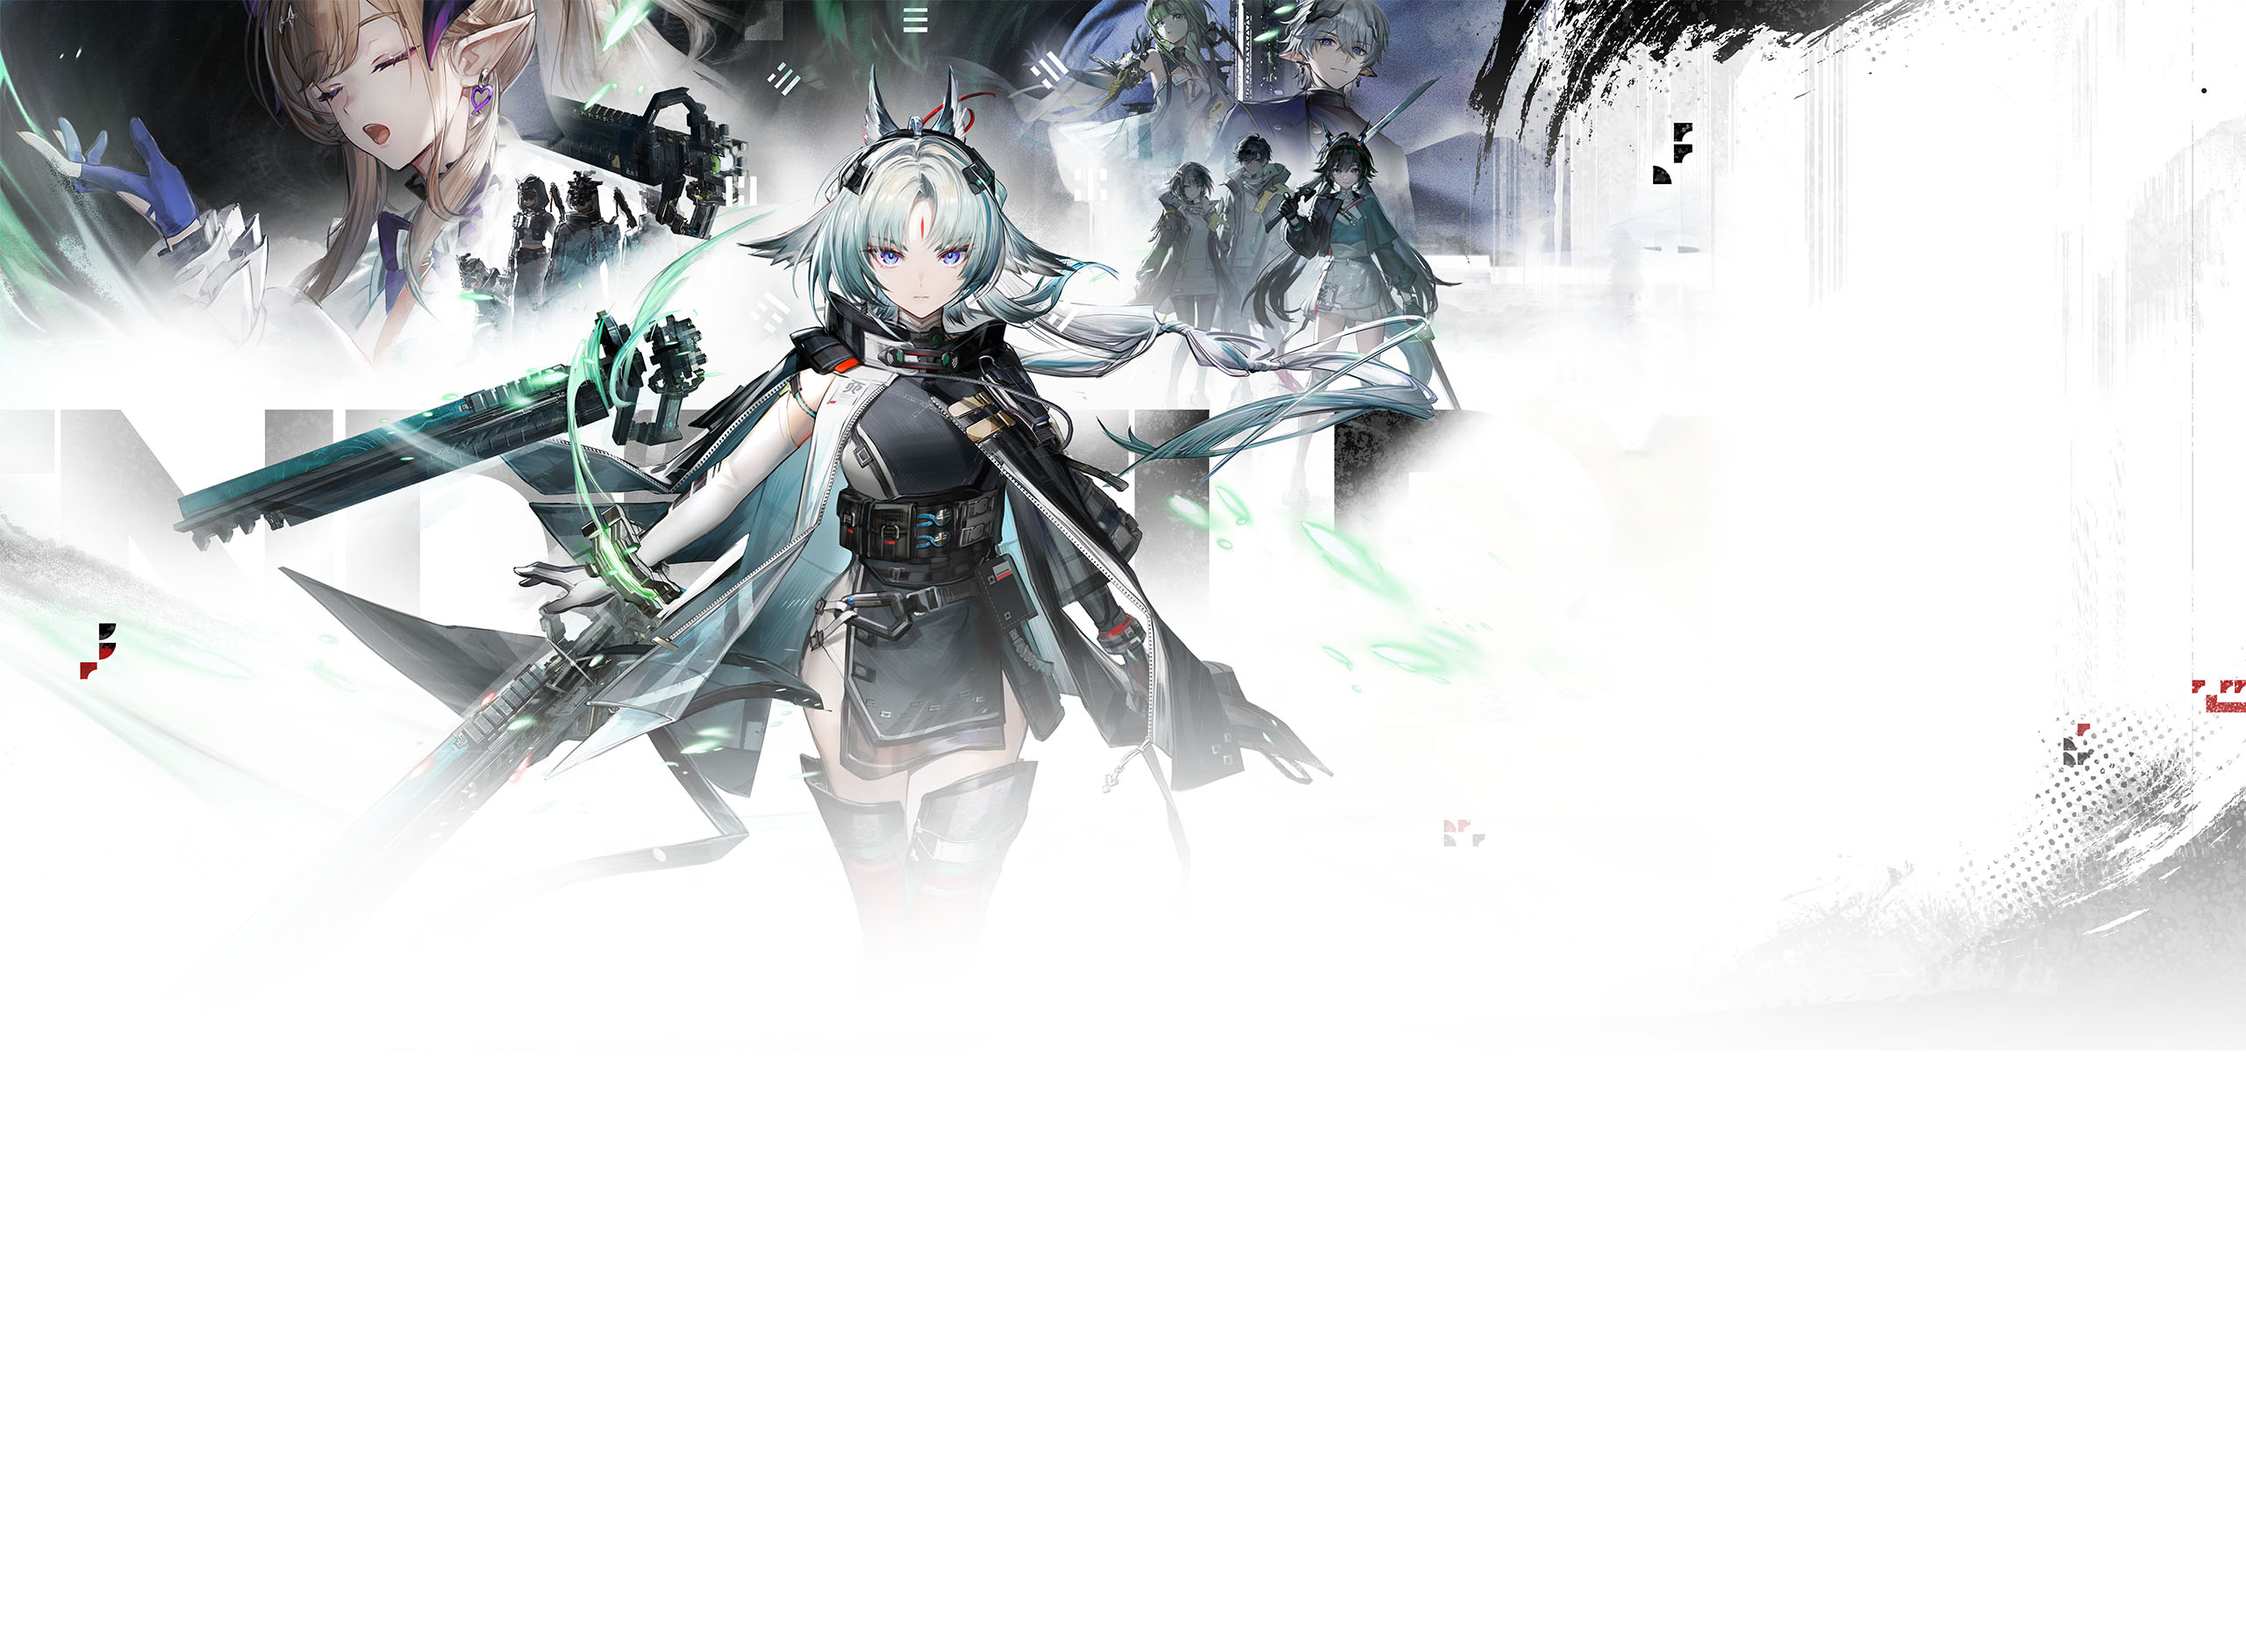
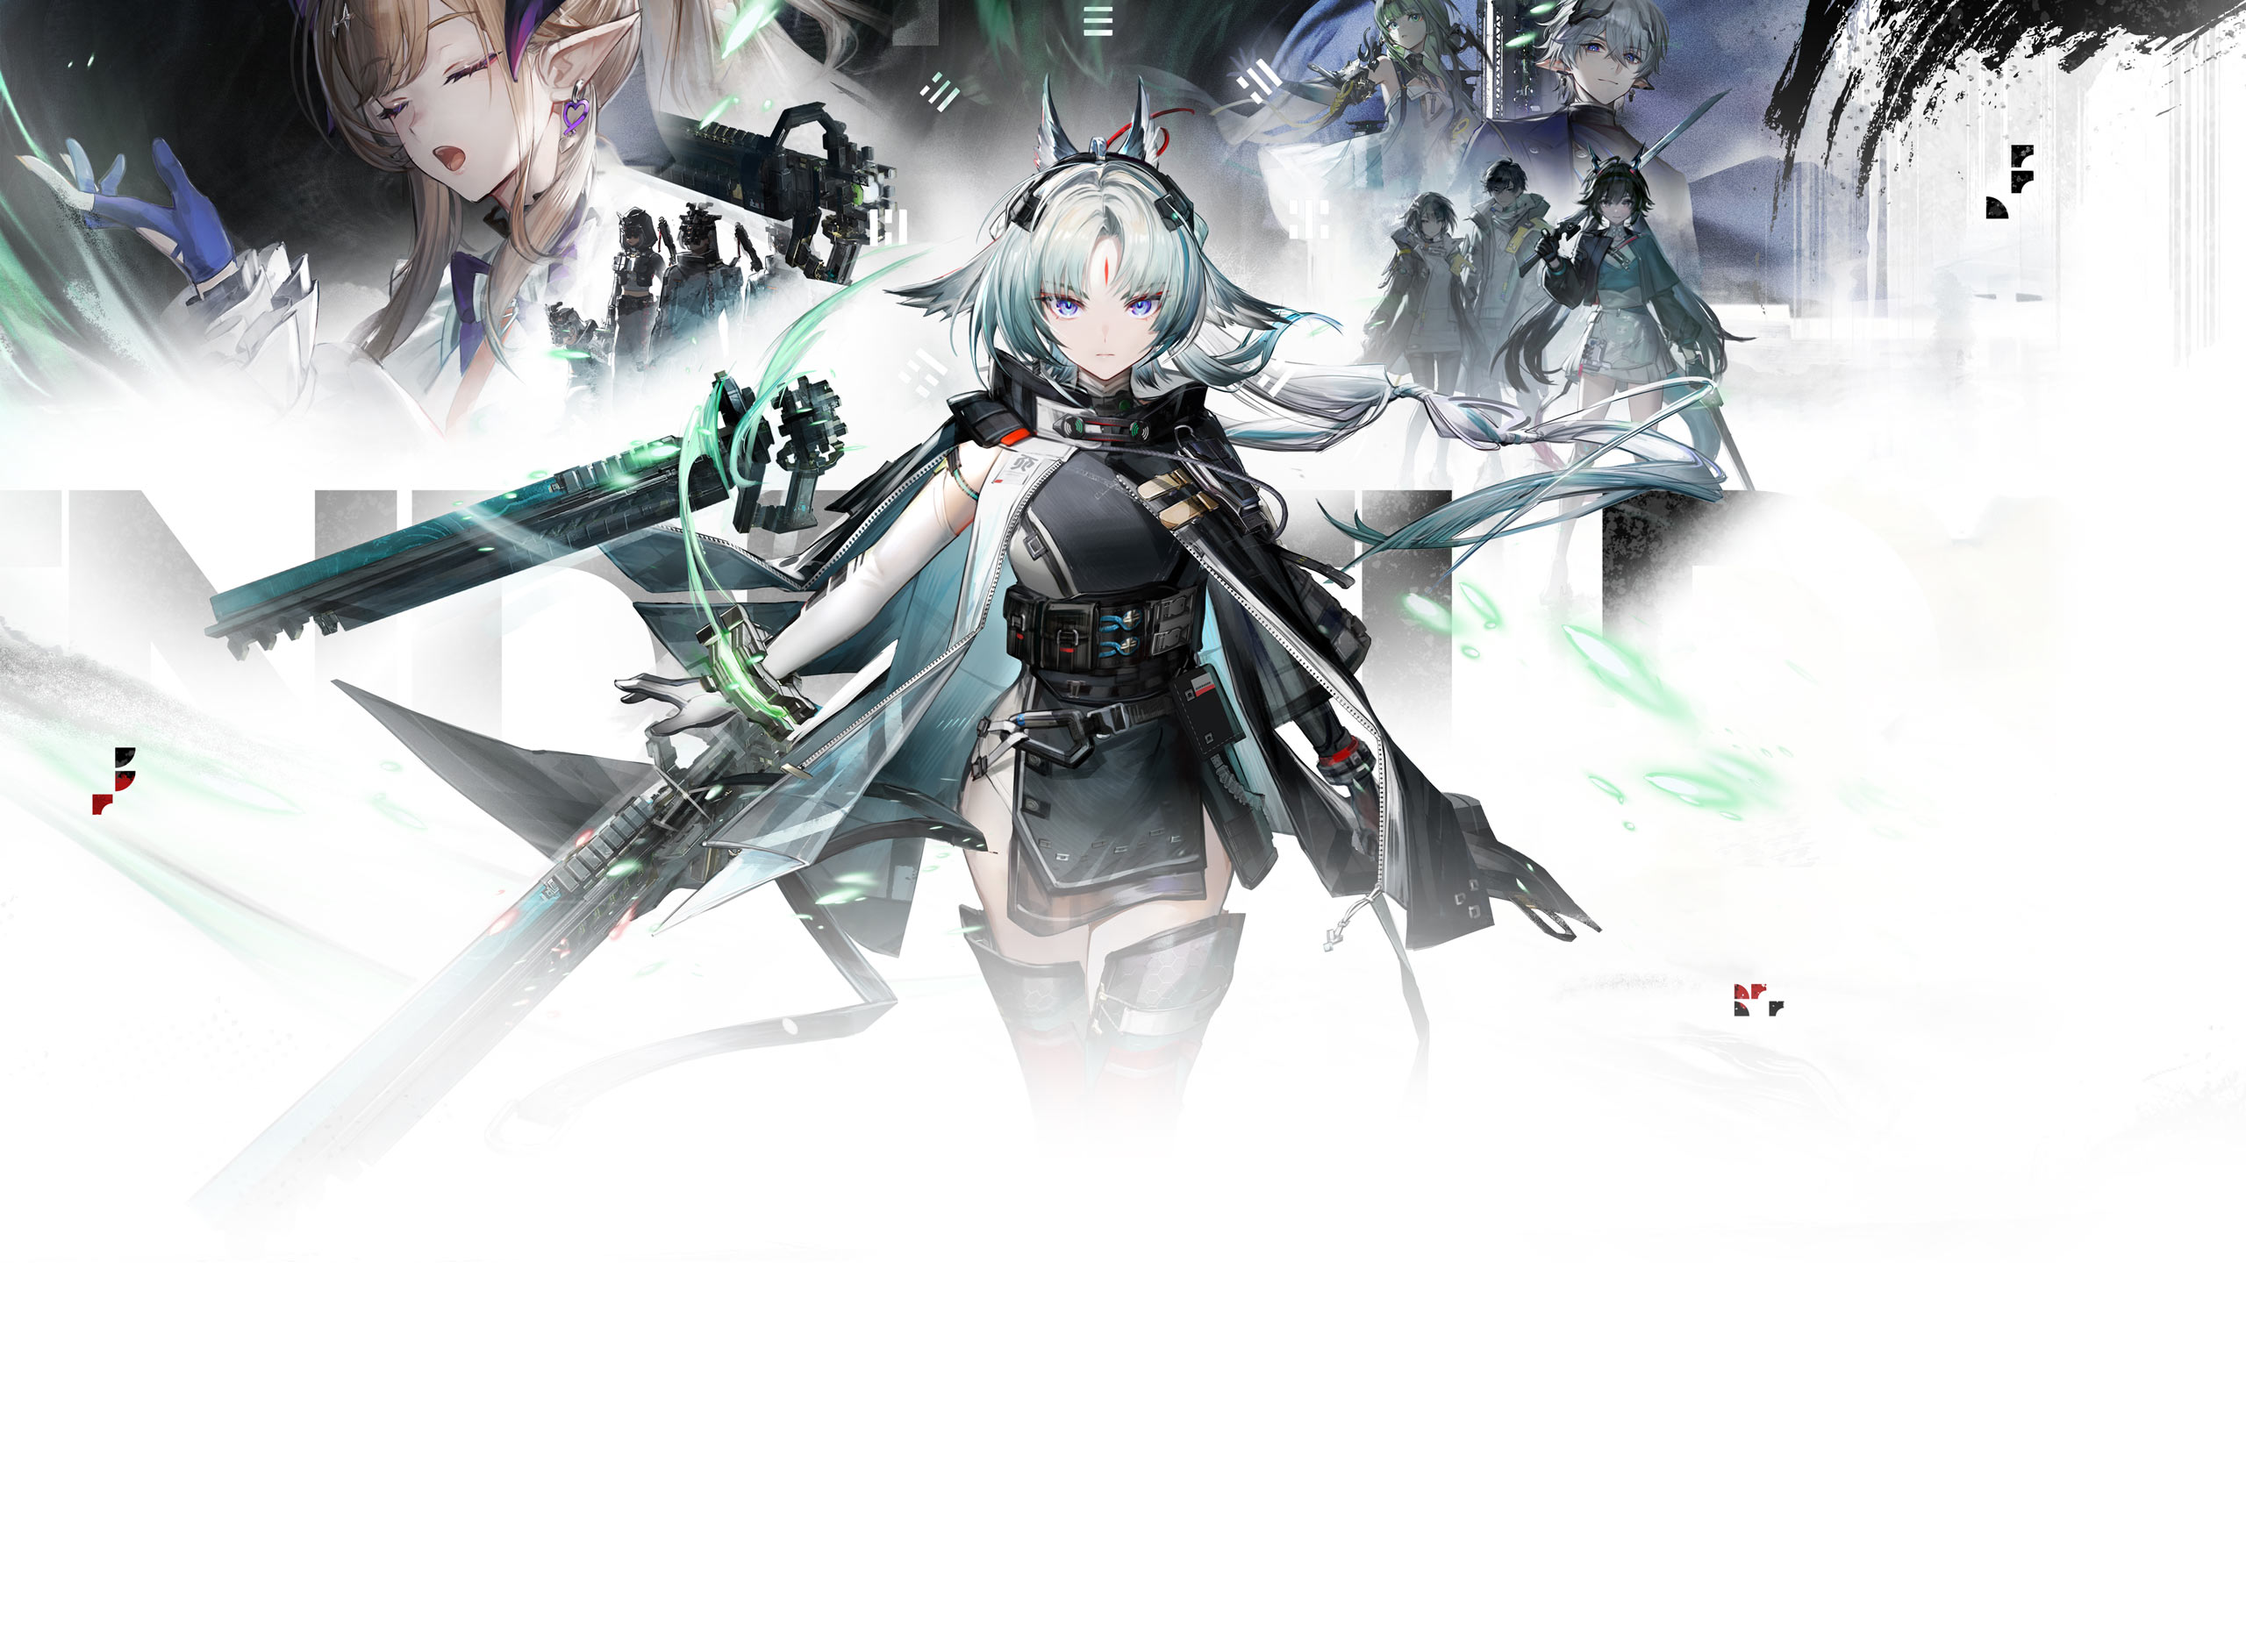
텍스트/에셋 업데이트: 이벤트 안내 문구 보완 및 bg_kv 교체

diff --git a/index.html b/index.html
@@ -45,13 +45,13 @@
     href="https://fonts.googleapis.com/css2?family=Noto+Sans+KR:wght@400;500;600;700&family=Noto+Sans:ital,wght@0,400;0,500;0,600;0,700;1,400&display=swap"
     rel="stylesheet">
   <script>
-    (function(d) {
+    (function (d) {
       var config = {
         kitId: 'tss0ukt',
         scriptTimeout: 3000,
         async: true
       },
-      h=d.documentElement,t=setTimeout(function(){h.className=h.className.replace(/\bwf-loading\b/g,"")+" wf-inactive";},config.scriptTimeout),tk=d.createElement("script"),f=false,s=d.getElementsByTagName("script")[0],a;h.className+=" wf-loading";tk.src='https://use.typekit.net/'+config.kitId+'.js';tk.async=true;tk.onload=tk.onreadystatechange=function(){a=this.readyState;if(f||a&&a!="complete"&&a!="loaded")return;f=true;clearTimeout(t);try{Typekit.load(config)}catch(e){}};s.parentNode.insertBefore(tk,s)
+        h = d.documentElement, t = setTimeout(function () { h.className = h.className.replace(/\bwf-loading\b/g, "") + " wf-inactive"; }, config.scriptTimeout), tk = d.createElement("script"), f = false, s = d.getElementsByTagName("script")[0], a; h.className += " wf-loading"; tk.src = 'https://use.typekit.net/' + config.kitId + '.js'; tk.async = true; tk.onload = tk.onreadystatechange = function () { a = this.readyState; if (f || a && a != "complete" && a != "loaded") return; f = true; clearTimeout(t); try { Typekit.load(config) } catch (e) { } }; s.parentNode.insertBefore(tk, s)
     })(document);
   </script>
 
@@ -205,7 +205,7 @@
       </div>
     </div>
     -->
-   
+
 
   </section>
 
@@ -366,6 +366,7 @@
                 <li>마일리지는 로그인한 피카플레이 계정으로 자동 지급됩니다.</li>
                 <li>마일리지 보상은 수량이 한정되어 있으며, 소진 시 지급 종료됩니다.</li>
                 <li>미션 달성현황 및 마일리지 소진 여부는 크래프트박스 '혜택박스 → 마일리지 혜택' 메뉴의 게임 미션 배너를 통해 확인 가능합니다.</li>
+                <li>본 이벤트는 전국 약 2,600개소 피카플레이 가맹 PC방 방문 또는 개인PC에서 크래프트박스 설치 후 참여 가능합니다.</li>
               </ul>
 
             </div>
@@ -561,7 +562,8 @@
                               <p class="totalplay-card__reward-name txt-caption-strong">엔드필드 굿즈 + 갤럭시 스토어 기프트카드</p>
                               <span class="totalplay-card__tag txt-caption">명일방주: 엔드필드 <br class="br-mo">공식 굿즈 3종</span>
                               <span class="totalplay-card__tag txt-caption">갤럭시 스토어 기프트 카드 <br class="br-mo">5만원권</span>
-                              <span class="totalplay-card__tag txt-caption">TOP 120명 전원에게 <br class="br-mo">2종 모두 지급</span>
+                              <span class="totalplay-card__tag txt-caption">TOP 120명 전원에게 <br class="br-mo">2종 모두
+                                지급</span>
                             </div>
                           </div>
                         </div>
@@ -852,7 +854,13 @@
         </li>
         <li class="s04-notice__item txt-footer-notice">
           <span class="s04-notice__bullet" aria-hidden="true">•</span>
-          <span class="s04-notice__text">본 이벤트는 PC방 또는 개인 PC에서 참여 가능하며, 중복 참여는 불가합니다.</span>
+          <span class="s04-notice__text">본 이벤트는 전국 약 2,600개소 <a
+              href="https://picaplay.com/pcbang/main.do" target="_blank" rel="noopener noreferrer"
+              class="s04-notice__link txt-footer-notice-strong">피카플레이 가맹 PC방</a> 또는 <a
+              href="https://www.craftbox.co.kr/" target="_blank" rel="noopener noreferrer"
+              class="s04-notice__link txt-footer-notice-strong">크래프트박스 설치</a>된 개인 PC에서 참여 가능하며,
+            중복 참여는 불가합니다.
+          </span>
         </li>
         <li class="s04-notice__item txt-footer-notice">
           <span class="s04-notice__bullet" aria-hidden="true">•</span>
@@ -864,7 +872,9 @@
         </li>
         <li class="s04-notice__item txt-footer-notice">
           <span class="s04-notice__bullet" aria-hidden="true">•</span>
-          <span class="s04-notice__text">누적 플레이 미션은 피카플레이 계정당 1회 참여 가능하며, TOP120 달성 시간 집계는 이벤트 참여 가능한 피카플레이 가맹 PC방 플레이 시간만 포함됩니다.</span>
+          <span class="s04-notice__text">누적 플레이 미션은 피카플레이 계정당 1회 참여 가능하며, TOP120 달성 시간 집계는 이벤트 참여 가능한
+            피카플레이 가맹 PC방 플레이 시간만 포함됩니다.
+          </span>
         </li>
         <li class="s04-notice__item txt-footer-notice">
           <span class="s04-notice__bullet" aria-hidden="true">•</span>
